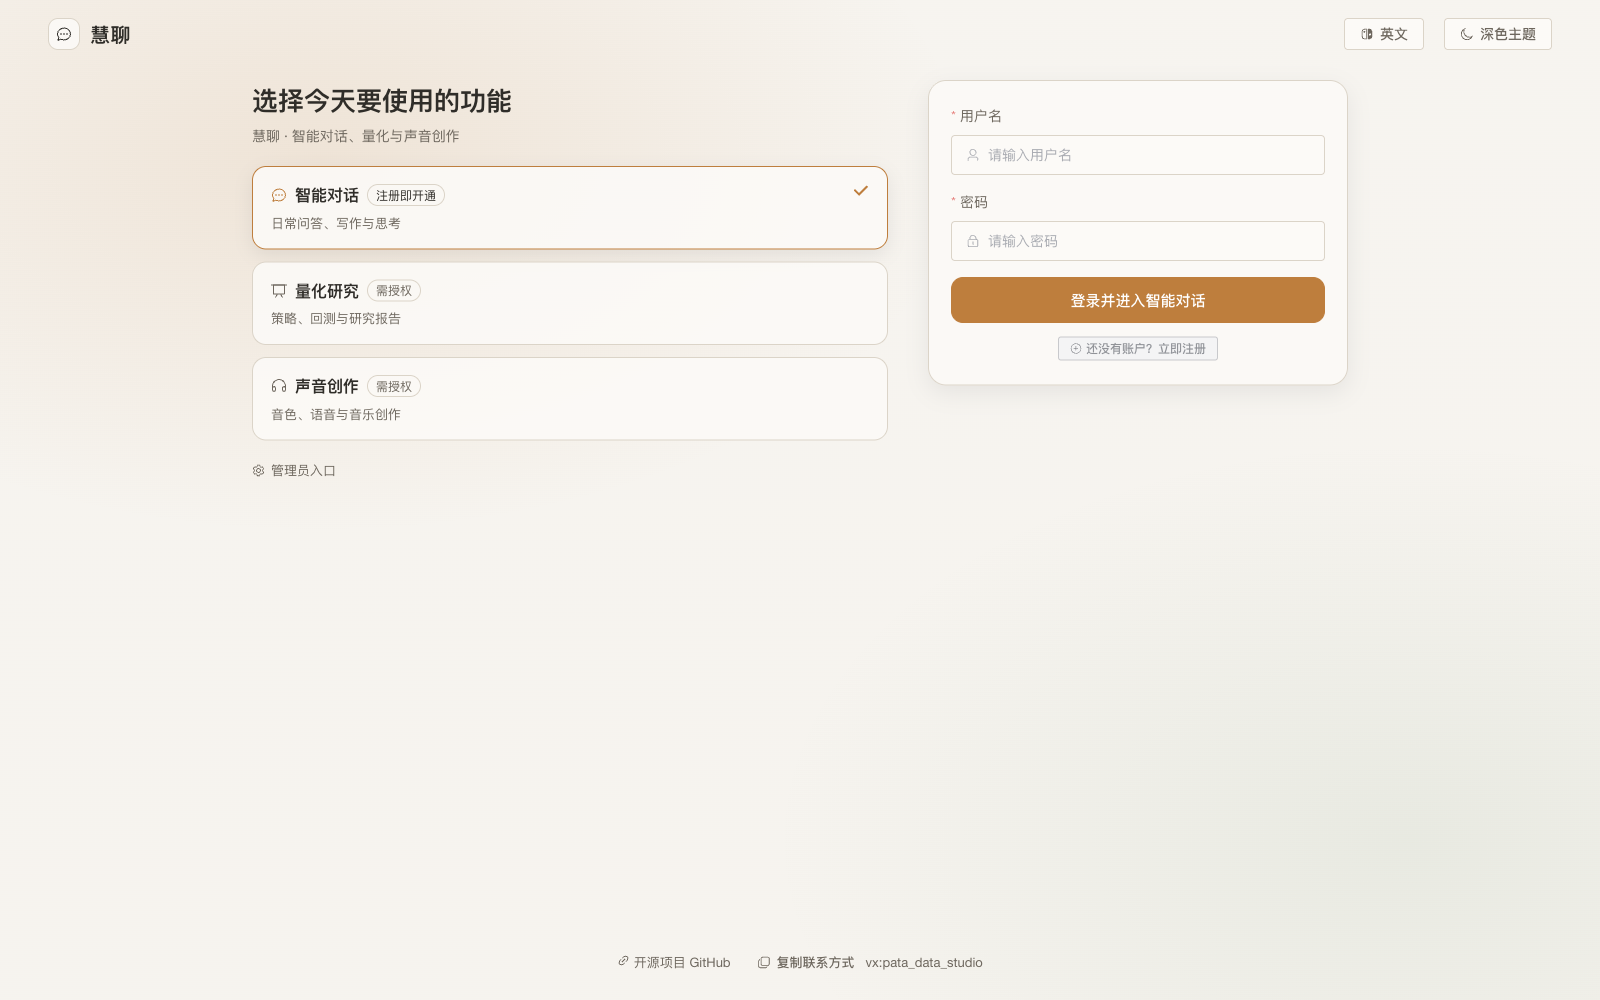
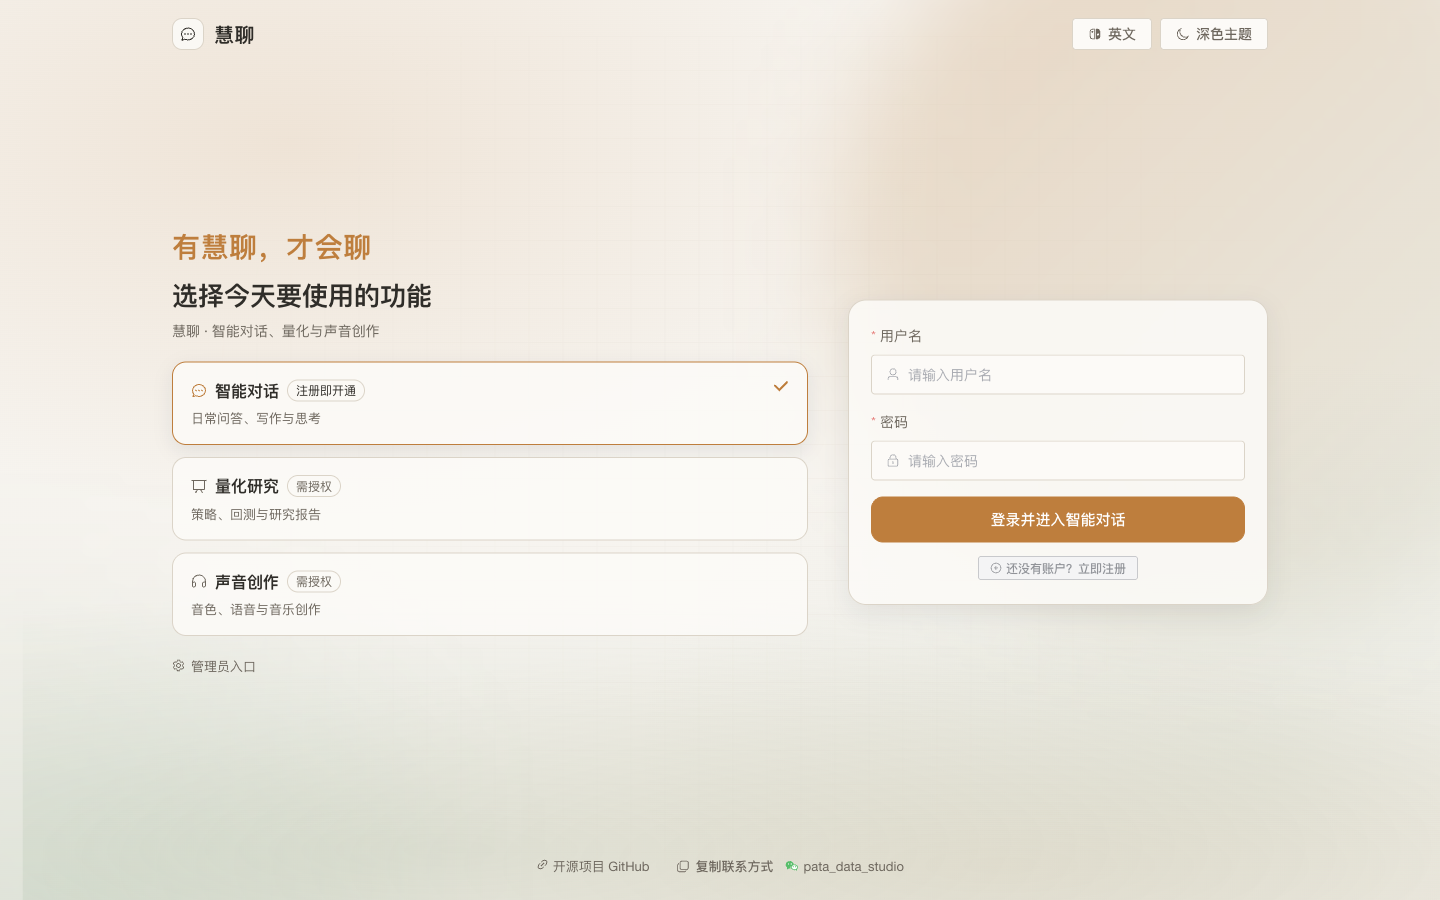
feat(fe): 登录页动画背景、垂直居中与微信联系方式图标
登录页发布后有三处观感问题：整页内容偏上、背景只有一层静态渐变显得单薄、
微信号只有「vx:」纯文字没有图标；同时改版时把旧版的「有慧聊，才会聊」品牌
标语丢了。

- 背景：新增 .login-backdrop 装饰层，沿用旧版 hero-vector 的三件套——漂浮色块
  （login-blob-float）、网格纹理、底部波纹（login-wave）。两块色块分别 18s /
  24s 缓慢漂移，带 48px 模糊以避免出现硬边；prefers-reduced-motion 下全部静止。
- 布局：.login-shell 改为 flex:1 + align-content:center，两列 align-items:center；
  顶栏与页脚统一到 1160px 内容容器，登录窗口与功能卡在可视区内垂直居中。
- 品牌标语：恢复 t('login.description')「有慧聊，才会聊」，作为功能区标题上方的
  强调行（accent-1 色），英文同步显示品牌语。
- 微信图标：新增 components/common/WeChatIcon.vue（后排绿泡 + 前排白泡的通用标记，
  currentColor 跟随文字颜色，前排气泡填充走 --wechat-cutout 变量便于深色底覆盖）。
  登录页页脚、未开通引导、聊天页页脚三处联系方式统一使用该图标；locale 的
  contactInfo 由「vx:pata_data_studio」改为「pata_data_studio」，图标承担「微信」
  语义，另加 contactLabel 作为无障碍标签。

验收：1440 / 1024 / 768 / 390 / 360 px 均无水平滚动；明暗两套主题与中英文切换
正常；微信图标在 17px 下仍可辨识。179 项前端单测通过，vue-tsc 相对基线新增 0 错，
npm run build 成功。

diff --git a/cyf/project/fe/src/views/Login.vue b/cyf/project/fe/src/views/Login.vue
@@ -1,5 +1,13 @@
 <template>
   <div class="login-page min-h-screen flex flex-col" :class="{ 'login-dark': isDarkTheme }">
+    <!-- 动画背景：沿用旧版 hero-vector 的漂浮色块 / 网格 / 波纹 -->
+    <div class="login-backdrop" aria-hidden="true">
+      <div class="login-backdrop__grid" />
+      <div class="login-backdrop__blob login-backdrop__blob--a" />
+      <div class="login-backdrop__blob login-backdrop__blob--b" />
+      <div class="login-backdrop__wave" />
+    </div>
+
     <!-- 顶栏：品牌 + 语言 / 主题 -->
     <header class="login-topbar">
       <div class="login-brand">
@@ -35,6 +43,7 @@
     <main class="login-shell">
       <!-- 功能选择 -->
       <section class="login-features" aria-labelledby="login-feature-title">
+        <p class="login-features__tagline">{{ t('login.description') }}</p>
         <h1 id="login-feature-title" class="login-features__title">
           {{ t('login.selectFunction') }}
         </h1>
@@ -118,7 +127,10 @@
               <el-button size="small" type="primary" plain @click="copyContact">
                 {{ t('login.contactAdmin') }}
               </el-button>
-              <span class="login-grant__contact-text">{{ contactInfo }}</span>
+              <span class="login-grant__contact-text">
+                <WeChatIcon size="sm" :label="t('login.contactLabel')" />
+                {{ contactInfo }}
+              </span>
             </div>
           </div>
 
@@ -330,7 +342,10 @@
           <el-icon><CopyDocument /></el-icon>
           <span>{{ copied ? t('login.copied') : t('login.copyContact') }}</span>
         </el-button>
-        <span class="login-footer__contact">{{ contactInfo }}</span>
+        <span class="login-footer__contact">
+          <WeChatIcon size="sm" :label="t('login.contactLabel')" />
+          {{ contactInfo }}
+        </span>
       </p>
     </footer>
   </div>
@@ -362,6 +377,7 @@ import { hasRole, type AppRole } from '@/auth/permissions'
 import { useAuthStore } from '@/stores/auth'
 import { authAPI } from '@/services/api'
 import { useThemeManager } from '@/composables/useThemeManager'
+import WeChatIcon from '@/components/common/WeChatIcon.vue'
 
 const { t, locale } = useI18n()
 const route = useRoute()
@@ -636,6 +652,8 @@ onMounted(async () => {
 
 <style scoped>
 .login-page {
+  position: relative;
+  overflow: hidden;
   background:
     radial-gradient(900px 520px at 20% 16%, color-mix(in srgb, var(--accent-1) 14%, transparent), transparent 72%),
     radial-gradient(860px 540px at 88% 84%, color-mix(in srgb, var(--accent-2) 10%, transparent), transparent 74%),
@@ -643,12 +661,133 @@ onMounted(async () => {
   color: var(--text-1);
 }
 
+/* ---------- 动画背景（沿用旧版 hero-vector 的漂浮色块 / 网格 / 波纹） ---------- */
+
+.login-backdrop {
+  position: absolute;
+  inset: 0;
+  z-index: 0;
+  overflow: hidden;
+  pointer-events: none;
+}
+
+.login-backdrop__grid {
+  position: absolute;
+  inset: 4% 6%;
+  background-image:
+    linear-gradient(to right, color-mix(in srgb, var(--line-1) 62%, transparent) 1px, transparent 1px),
+    linear-gradient(to bottom, color-mix(in srgb, var(--line-1) 62%, transparent) 1px, transparent 1px);
+  background-size: 34px 34px;
+  mask-image: radial-gradient(circle at 50% 42%, black 22%, transparent 76%);
+  -webkit-mask-image: radial-gradient(circle at 50% 42%, black 22%, transparent 76%);
+  opacity: 0.2;
+}
+
+.login-backdrop__blob {
+  position: absolute;
+  filter: blur(48px);
+}
+
+.login-backdrop__blob--a {
+  top: -14%;
+  right: -10%;
+  width: 52vw;
+  height: 52vw;
+  max-width: 720px;
+  max-height: 720px;
+  border-radius: 42% 58% 52% 48%;
+  background: linear-gradient(
+    135deg,
+    color-mix(in srgb, var(--accent-1) 26%, transparent),
+    color-mix(in srgb, var(--accent-2) 10%, transparent)
+  );
+  animation: login-blob-float 18s ease-in-out infinite;
+}
+
+.login-backdrop__blob--b {
+  bottom: -20%;
+  left: -12%;
+  width: 44vw;
+  height: 44vw;
+  max-width: 620px;
+  max-height: 620px;
+  border-radius: 58% 42% 46% 54%;
+  background: radial-gradient(
+    120% 100% at 32% 82%,
+    color-mix(in srgb, var(--accent-2) 20%, transparent),
+    transparent 70%
+  );
+  animation: login-blob-drift 24s ease-in-out infinite;
+}
+
+.login-backdrop__wave {
+  position: absolute;
+  left: 0;
+  right: 0;
+  bottom: 0;
+  height: 40%;
+  background:
+    radial-gradient(120% 100% at 30% 84%, color-mix(in srgb, var(--accent-2) 16%, transparent), transparent 68%),
+    radial-gradient(100% 90% at 68% 88%, color-mix(in srgb, var(--accent-1) 10%, transparent), transparent 68%);
+  transform-origin: center;
+  animation: login-wave 20s ease-in-out infinite;
+}
+
+@keyframes login-blob-float {
+  0%, 100% {
+    transform: translate3d(0, 0, 0) scale(1);
+    border-radius: 42% 58% 52% 48%;
+  }
+  50% {
+    transform: translate3d(-14px, 12px, 0) scale(1.05);
+    border-radius: 56% 44% 48% 52%;
+  }
+}
+
+@keyframes login-blob-drift {
+  0%, 100% {
+    transform: translate3d(0, 0, 0) scale(1);
+    border-radius: 58% 42% 46% 54%;
+  }
+  50% {
+    transform: translate3d(18px, -10px, 0) scale(1.06);
+    border-radius: 44% 56% 52% 48%;
+  }
+}
+
+@keyframes login-wave {
+  0%, 100% {
+    transform: translate3d(0, 0, 0) scaleY(1);
+  }
+  50% {
+    transform: translate3d(2%, 0, 0) scaleY(1.08);
+  }
+}
+
+@media (prefers-reduced-motion: reduce) {
+  .login-backdrop__blob--a,
+  .login-backdrop__blob--b,
+  .login-backdrop__wave {
+    animation: none;
+  }
+}
+
+.login-topbar,
+.login-shell,
+.login-footer {
+  position: relative;
+  z-index: 1;
+}
+
 .login-topbar {
   display: flex;
   align-items: center;
   justify-content: space-between;
   gap: 12px;
-  padding: 18px clamp(16px, 4vw, 48px);
+  width: 100%;
+  max-width: 1160px;
+  margin: 0 auto;
+  padding: 18px clamp(16px, 4vw, 32px);
 }
 
 .login-brand {
@@ -694,7 +833,18 @@ onMounted(async () => {
   display: grid;
   grid-template-columns: minmax(0, 1fr) minmax(340px, 420px);
   gap: clamp(20px, 3vw, 40px);
-  align-items: start;
+  /* 两列与整块内容都在可视区里垂直居中 */
+  align-items: center;
+  align-content: center;
+  flex: 1 1 auto;
+}
+
+.login-features__tagline {
+  margin: 0 0 8px;
+  font-size: clamp(21px, 2.5vw, 28px);
+  font-weight: 700;
+  letter-spacing: 0.02em;
+  color: var(--accent-1);
 }
 
 .login-features__title {
@@ -901,6 +1051,9 @@ onMounted(async () => {
 }
 
 .login-grant__contact-text {
+  display: inline-flex;
+  align-items: center;
+  gap: 5px;
   font-size: 13px;
   color: var(--text-2);
 }
@@ -995,8 +1148,10 @@ onMounted(async () => {
 }
 
 .login-footer {
-  margin-top: auto;
-  padding: 16px clamp(16px, 4vw, 48px) 28px;
+  width: 100%;
+  max-width: 1160px;
+  margin: 0 auto;
+  padding: 8px clamp(16px, 4vw, 32px) 24px;
   display: flex;
   flex-wrap: wrap;
   justify-content: center;
@@ -1014,6 +1169,12 @@ onMounted(async () => {
 .login-footer__contact {
   font-size: 13px;
   color: var(--text-2);
+}
+
+.login-footer__contact {
+  display: inline-flex;
+  align-items: center;
+  gap: 5px;
 }
 
 .login-footer__link:hover {

diff --git a/cyf/project/fe/src/components/common/WeChatIcon.vue b/cyf/project/fe/src/components/common/WeChatIcon.vue
@@ -1,0 +1,80 @@
+<template>
+  <svg
+    class="wechat-icon"
+    :class="`wechat-icon--${size}`"
+    viewBox="0 0 32 32"
+    role="img"
+    :aria-label="label || undefined"
+    :aria-hidden="label ? undefined : 'true'"
+    focusable="false"
+  >
+    <!-- 后排大气泡：微信品牌绿 -->
+    <path
+      class="wechat-icon__bubble"
+      fill="currentColor"
+      d="M13.3 3.4c-5.9 0-10.7 3.9-10.7 8.8 0 2.8 1.5 5.2 3.8 6.8l-1 3.7 4.1-2.3c1.1.3 2.4.5 3.7.5h.4a6.7 6.7 0 0 1-.2-1.7c0-3.6 3.6-6.6 8.1-6.6h.4C20.4 7.2 17.1 3.4 13.3 3.4Z"
+    />
+    <circle class="wechat-icon__eye" cx="9.2" cy="10.2" r="1.35" />
+    <circle class="wechat-icon__eye" cx="15.5" cy="10.2" r="1.35" />
+
+    <!-- 前排小气泡：白底 + 同色描边 -->
+    <path
+      class="wechat-icon__bubble wechat-icon__bubble--front"
+      fill="var(--wechat-cutout, #fff)"
+      stroke="currentColor"
+      stroke-width="1.9"
+      stroke-linejoin="round"
+      d="M22.6 12.1c-3.8 0-6.9 2.6-6.9 5.7s3.1 5.7 6.9 5.7c.9 0 1.8-.1 2.6-.4l3 1.6-.9-2.6c1.4-1.1 2.3-2.6 2.3-4.3 0-3.1-3.1-5.7-7-5.7Z"
+    />
+    <circle class="wechat-icon__eye wechat-icon__eye--front" cx="20" cy="16.5" r="1.15" />
+    <circle class="wechat-icon__eye wechat-icon__eye--front" cx="25.2" cy="16.5" r="1.15" />
+  </svg>
+</template>
+
+<script setup lang="ts">
+/**
+ * 微信图标：后排绿泡 + 前排白泡的通用标记。
+ *
+ * 用 currentColor 跟随所在文字颜色；前排气泡的填充用 `--wechat-cutout`
+ * 变量兜底为白色，需要在深色底上显示时由使用方覆盖该变量。
+ */
+withDefaults(defineProps<{
+  size?: 'sm' | 'md' | 'lg'
+  label?: string
+}>(), {
+  size: 'md',
+  label: ''
+})
+</script>
+
+<style scoped>
+.wechat-icon {
+  display: inline-block;
+  vertical-align: -0.14em;
+  flex-shrink: 0;
+  color: #07c160;
+}
+
+.wechat-icon--sm {
+  width: 14px;
+  height: 14px;
+}
+
+.wechat-icon--md {
+  width: 17px;
+  height: 17px;
+}
+
+.wechat-icon--lg {
+  width: 22px;
+  height: 22px;
+}
+
+.wechat-icon__eye {
+  fill: var(--wechat-cutout, #fff);
+}
+
+.wechat-icon__eye--front {
+  fill: currentColor;
+}
+</style>

diff --git a/cyf/project/fe/src/components/chat/ChatContent.vue b/cyf/project/fe/src/components/chat/ChatContent.vue
@@ -202,7 +202,10 @@
             <Link />
           </el-icon> {{ t('login.githubLink') }}
         </a>
-        <span class="wechat-info"> vx:pata_data_studio </span>
+        <span class="wechat-info">
+          <WeChatIcon size="sm" :label="t('login.contactLabel')" />
+          pata_data_studio
+        </span>
       </div>
 
       <!-- 回到顶部按钮 -->
@@ -283,6 +286,7 @@ import { useAuthStore } from '@/stores/auth'
 import { chatAPI } from '@/services/api'
 import { normalizeFileUrl } from '@/services/backendUrl'
 import { FormData } from '@/utils/main'
+import WeChatIcon from '@/components/common/WeChatIcon.vue'
 import InputArea from './InputArea.vue'
 import ChatToolbar from './ChatToolbar.vue'
 import 'highlight.js/styles/github-dark.css'

diff --git a/cyf/project/fe/src/locales/en/login.ts b/cyf/project/fe/src/locales/en/login.ts
@@ -14,7 +14,8 @@ export const enLogin = {
   viewNotifications: 'View Notifications',
   description: 'Experience smart conversation, let AI serve you',
   githubLink: 'Open Source Project GitHub',
-  contactInfo: 'wx:pata_data_studio',
+  contactInfo: 'pata_data_studio',
+  contactLabel: 'WeChat',
   copyContact: 'Copy contact',
   copied: 'Copied',
   failedMessage: 'Login failed, please check username and password',

diff --git a/cyf/project/fe/src/locales/zh/login.ts b/cyf/project/fe/src/locales/zh/login.ts
@@ -14,7 +14,8 @@ export const zhLogin = {
   viewNotifications: '查看通知',
   description: '有慧聊，才会聊',
   githubLink: '开源项目 GitHub',
-  contactInfo: 'vx:pata_data_studio',
+  contactInfo: 'pata_data_studio',
+  contactLabel: '微信',
   copyContact: '复制联系方式',
   copied: '已复制',
   failedMessage: '登录失败，请检查用户名和密码',

diff --git a/cyf/project/fe/src/styles/chat-content.css b/cyf/project/fe/src/styles/chat-content.css
@@ -823,6 +823,12 @@ body.dark-theme .message-text table::-webkit-scrollbar-thumb:hover {
   color: var(--text-2);
 }
 
+.wechat-info {
+  display: inline-flex;
+  align-items: center;
+  gap: 5px;
+}
+
 body.dark-theme .message-content-user,
 body.dark-theme .message-content-ai {
   border-color: var(--line-1);

diff --git a/doc/huiliao-permissions-acceptance-report.md b/doc/huiliao-permissions-acceptance-report.md
@@ -95,7 +95,7 @@
 | V02 主题 / 语言 | 亮 / 暗 × 中 / 英文切换正常，文案完整、对比度可读 | 通过 |
 | V03 键盘 / 辅助 | 功能选择为原生 radio 组（`role="radiogroup"`），表单有可关联标签与可见焦点，Enter 可提交 | 通过（自动化 + 快照核对） |
 
-证据截图：`doc/screenshots/huiliao-login-1440.png`（1440 亮色中文）、`doc/screenshots/huiliao-login-390.png`（390 单列）、`doc/screenshots/huiliao-login-390-dark-en.png`（390 暗色英文）、`doc/screenshots/huiliao-admin-user-roles.png`（管理端多角色编辑）。
+证据截图：`doc/screenshots/huiliao-login-1440.png`（1440 亮色中文，含动画背景与品牌标语）、`doc/screenshots/huiliao-login-1440-dark.png`（1440 暗色）、`doc/screenshots/huiliao-login-390.png`（390 单列）、`doc/screenshots/huiliao-login-390-dark-en.png`（390 暗色英文）、`doc/screenshots/huiliao-admin-user-roles.png`（管理端多角色编辑）、`doc/screenshots/huiliao-wechat-icon.png`（微信图标）。
 
 ### 4.2 角色矩阵（A03–A05）
 
